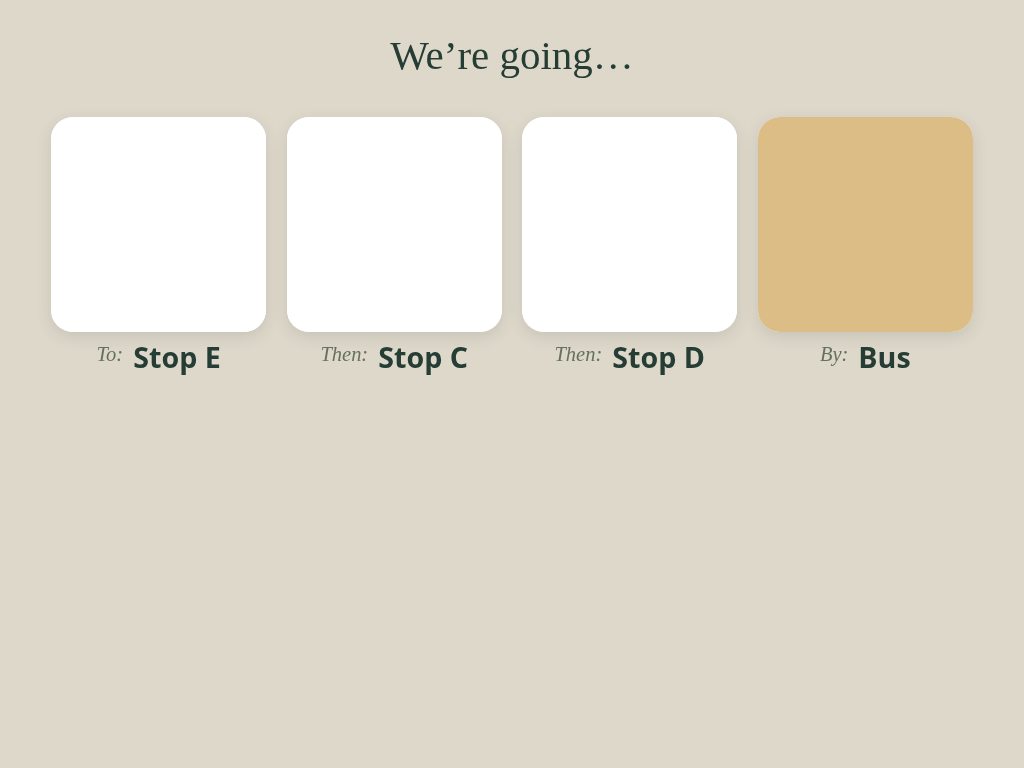
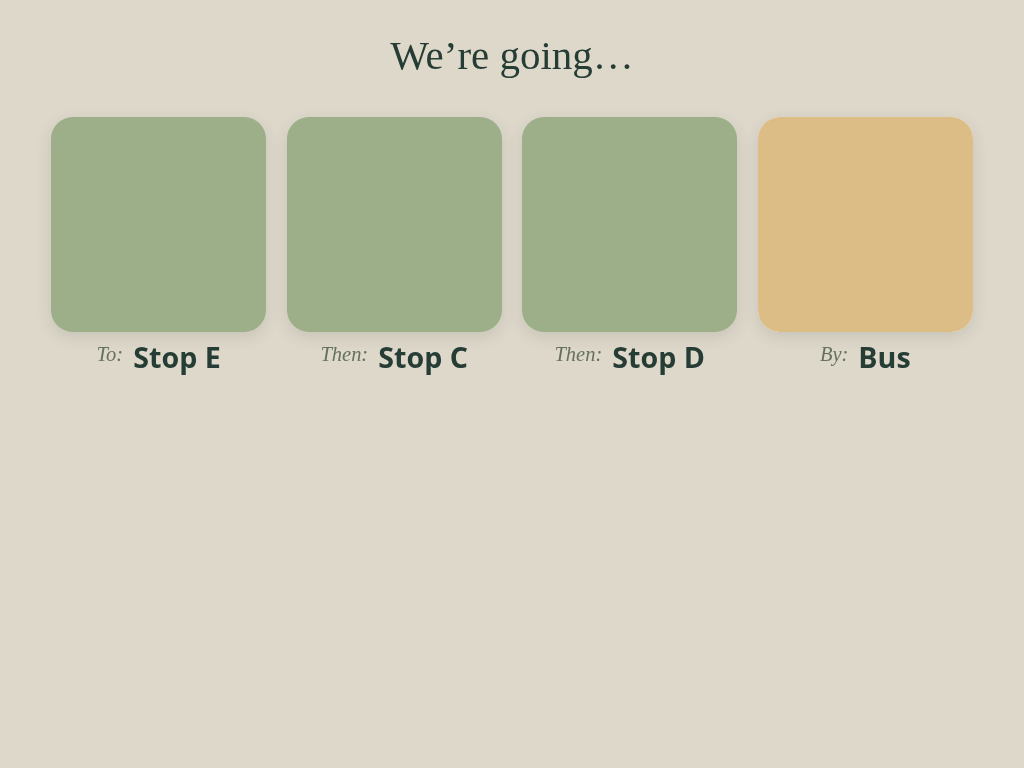
Fix narrow-screen branding and invalid Safari test fixtures in v1.0.35

Changed region(s): [[0.0312, 0.125, 0.7188, 0.4375]]

diff --git a/transition_cues/transition-cues-web/style.css b/transition_cues/transition-cues-web/style.css
@@ -80,3 +80,8 @@
 .planner-header:not(.selection-header){padding-top:12px;padding-bottom:36px}.brand{font-size:38px;line-height:1.1;gap:18px}.brand img{width:84px;height:84px;flex:none;border-radius:20px}.brand small{font-size:22px;line-height:1.3;letter-spacing:.6px;margin-top:8px}
 @media(max-width:620px){.brand{font-size:32px;gap:10px}.brand img{width:72px;height:72px}.brand small{margin-top:6px}.planner-header:not(.selection-header){padding-top:16px;padding-bottom:44px}}
 @media(max-width:380px){.brand{font-size:clamp(24px,7.5vw,28px);gap:10px}.brand img{width:clamp(56px,16vw,64px);height:clamp(56px,16vw,64px)}.brand small{font-size:18px;margin-top:5px}}
+
+/* Reserve space for the cog rather than wrapping it beneath wider system fonts. */
+.planner-header:not(.selection-header){display:grid;grid-template-columns:minmax(0,1fr) 44px;column-gap:12px}.planner-header .brand,.planner-header .brand>span{min-width:0}.planner-header .brand>span{white-space:nowrap}
+@media(max-width:620px){.brand{font-size:clamp(26px,7.3vw,32px)}}
+@media(max-width:380px){.brand{font-size:clamp(20px,6.5vw,24px)}.brand small{font-size:clamp(16px,4.7vw,18px)}}

diff --git a/tests/browser_display.py b/tests/browser_display.py
@@ -148,7 +148,7 @@ def run(engine):
                 # Adding within a category retains the plan and returns to its current step.
                 page.locator('[data-add-kind="items"]').click()
                 page.locator('#name').fill('New item')
[2 lines of base64/hex data omitted]
                 page.locator('#uploadButton').click()
                 expect(page.locator('#uploadDialog')).not_to_be_visible()
                 expect(page.locator('#planStep')).to_have_attribute('data-step','2')
@@ -233,7 +233,7 @@ def run(engine):
                 page.reload();expect(page.locator('#start')).not_to_be_visible()
                 # Shared usage ordering and an ordered three-stop journey.
                 page.evaluate("""async () => {
[2 lines of base64/hex data omitted]
                     for(const name of ['Stop C','Stop D','Stop E','Stop F','Stop G']) await fetch('/api/items',{method:'POST',headers:{'Content-Type':'application/json'},body:JSON.stringify({kind:'places',name,image})});
                     const state=await (await fetch('/api/state')).json();
                     for(const name of ['Stop C','Stop C','Stop D','Stop E']) await fetch('/api/usage',{method:'POST',headers:{'Content-Type':'application/json'},body:JSON.stringify({places:[state.places.find(x=>x.name===name).id],transport:[state.transport[0].id]})});

diff --git a/tests/browser_splash.py b/tests/browser_splash.py
@@ -24,7 +24,7 @@ def run(engine):
                 page.on('pageerror',lambda e:errors.append(str(e)))
                 url=f'http://127.0.0.1:{server.server_port}'
                 page.goto(url)
[2 lines of base64/hex data omitted]
                 def choose(target):
                     target.get_by_role('button',name='Park',exact=True).click()
                     target.get_by_role('button',name='Bus',exact=True).click()

diff --git a/tests/container_smoke.py b/tests/container_smoke.py
@@ -43,7 +43,7 @@ else:
         start()
         first = probe + '''assert 'setupRequired' not in state
 cookie=''
[2 lines of base64/hex data omitted]
 for kind,name in [('places','Home'),('items','Drink'),('people','Person A')]:
  record=json.load(request('/api/items',{'kind':kind,'name':name,'image':photo},cookie))
  if kind=='people':
@@ -81,5 +81,5 @@ print('PASS: replacement container preserves library and images in /data')
 
 if __name__ == '__main__':
     parser = argparse.ArgumentParser()
-    parser.add_argument('--image', default='transition-cues-ha-check:1.0.34')
+    parser.add_argument('--image', default='transition-cues-ha-check:1.0.35')
     run(parser.parse_args().image)

diff --git a/tests/test_server.py b/tests/test_server.py
@@ -11,7 +11,7 @@ import unittest
 sys.path.insert(0, str(Path(__file__).resolve().parents[1] / 'transition_cues'))
 from server import make_server, Store
 
[2 lines of base64/hex data omitted]
 
 
 class AppTests(unittest.TestCase):

diff --git a/DEVELOPMENT.md b/DEVELOPMENT.md
@@ -17,7 +17,7 @@ python3 -m unittest discover -s tests -v
 node --check transition_cues/transition-cues-web/app.js
 ```
 
-For optional browser checks, install Playwright and its Chromium dependency, then run `python3 tests/browser_smoke.py` and `python3 tests/browser_people_crop.py`. The latter checks square frames, fill/fit output pixels, background colours, source transparency, People portraits and immutable locked journey snapshots; add `--browser webkit` to check the same flows with the Safari engine. Run `python3 tests/browser_display.py` (or add `--browser webkit`) for the one-step planner, selection thumbnails, reset navigation, Settings controls, portrait/landscape layouts, long-name alignment and timed tap exit. Run `python3 tests/browser_splash.py` (or add `--browser webkit`) to check the pre-lock splash and saved browser preference. Set `CHROMIUM_PATH` to use a system Chromium. It creates an isolated temporary library, not `/data` or a shared Home Assistant folder.
+For optional browser checks, install `playwright==1.64.1` (the version pinned in CI) and its Chromium dependency, then run `python3 tests/browser_smoke.py` and `python3 tests/browser_people_crop.py`. The latter checks square frames, fill/fit output pixels, background colours, source transparency, People portraits and immutable locked journey snapshots; add `--browser webkit` to check the same flows with the Safari engine. Run `python3 tests/browser_display.py` (or add `--browser webkit`) for the one-step planner, selection thumbnails, reset navigation, Settings controls, portrait/landscape layouts, long-name alignment and timed tap exit. Run `python3 tests/browser_splash.py` (or add `--browser webkit`) to check the pre-lock splash and saved browser preference. Use Playwright’s downloaded browsers for release verification so they match CI. Set `CHROMIUM_PATH` only for a quick system-Chromium check. Browser CI jobs retain generated screenshots as failure artifacts. It creates an isolated temporary library, not `/data` or a shared Home Assistant folder.
 
 CI runs the tests and builds the add-on for `linux/amd64` and `linux/arm64` (Home Assistant's `aarch64`). Each job also runs an isolated container check that verifies /data storage and preservation across container replacement. Nothing is pushed to a registry or deployed. A local equivalent is `docker build -t transition-cues-check ./transition_cues` followed by `python3 tests/container_smoke.py --image transition-cues-check`. The smoke check creates and removes only its own temporary containers and volume.
 

diff --git a/transition_cues/CHANGELOG.md b/transition_cues/CHANGELOG.md
@@ -1,5 +1,10 @@
 # Changelog
 
+## 1.0.35
+
+- Keep the enlarged brand and cog on one line with wider system fonts on narrow phones.
+- Replace a corrupt test PNG rejected by Safari with a valid image and verify browser checks using the CI browser versions.
+
 ## 1.0.34
 
 - Simplify the pre-lock screen to A quick note, with unlock instructions on a separate line.
